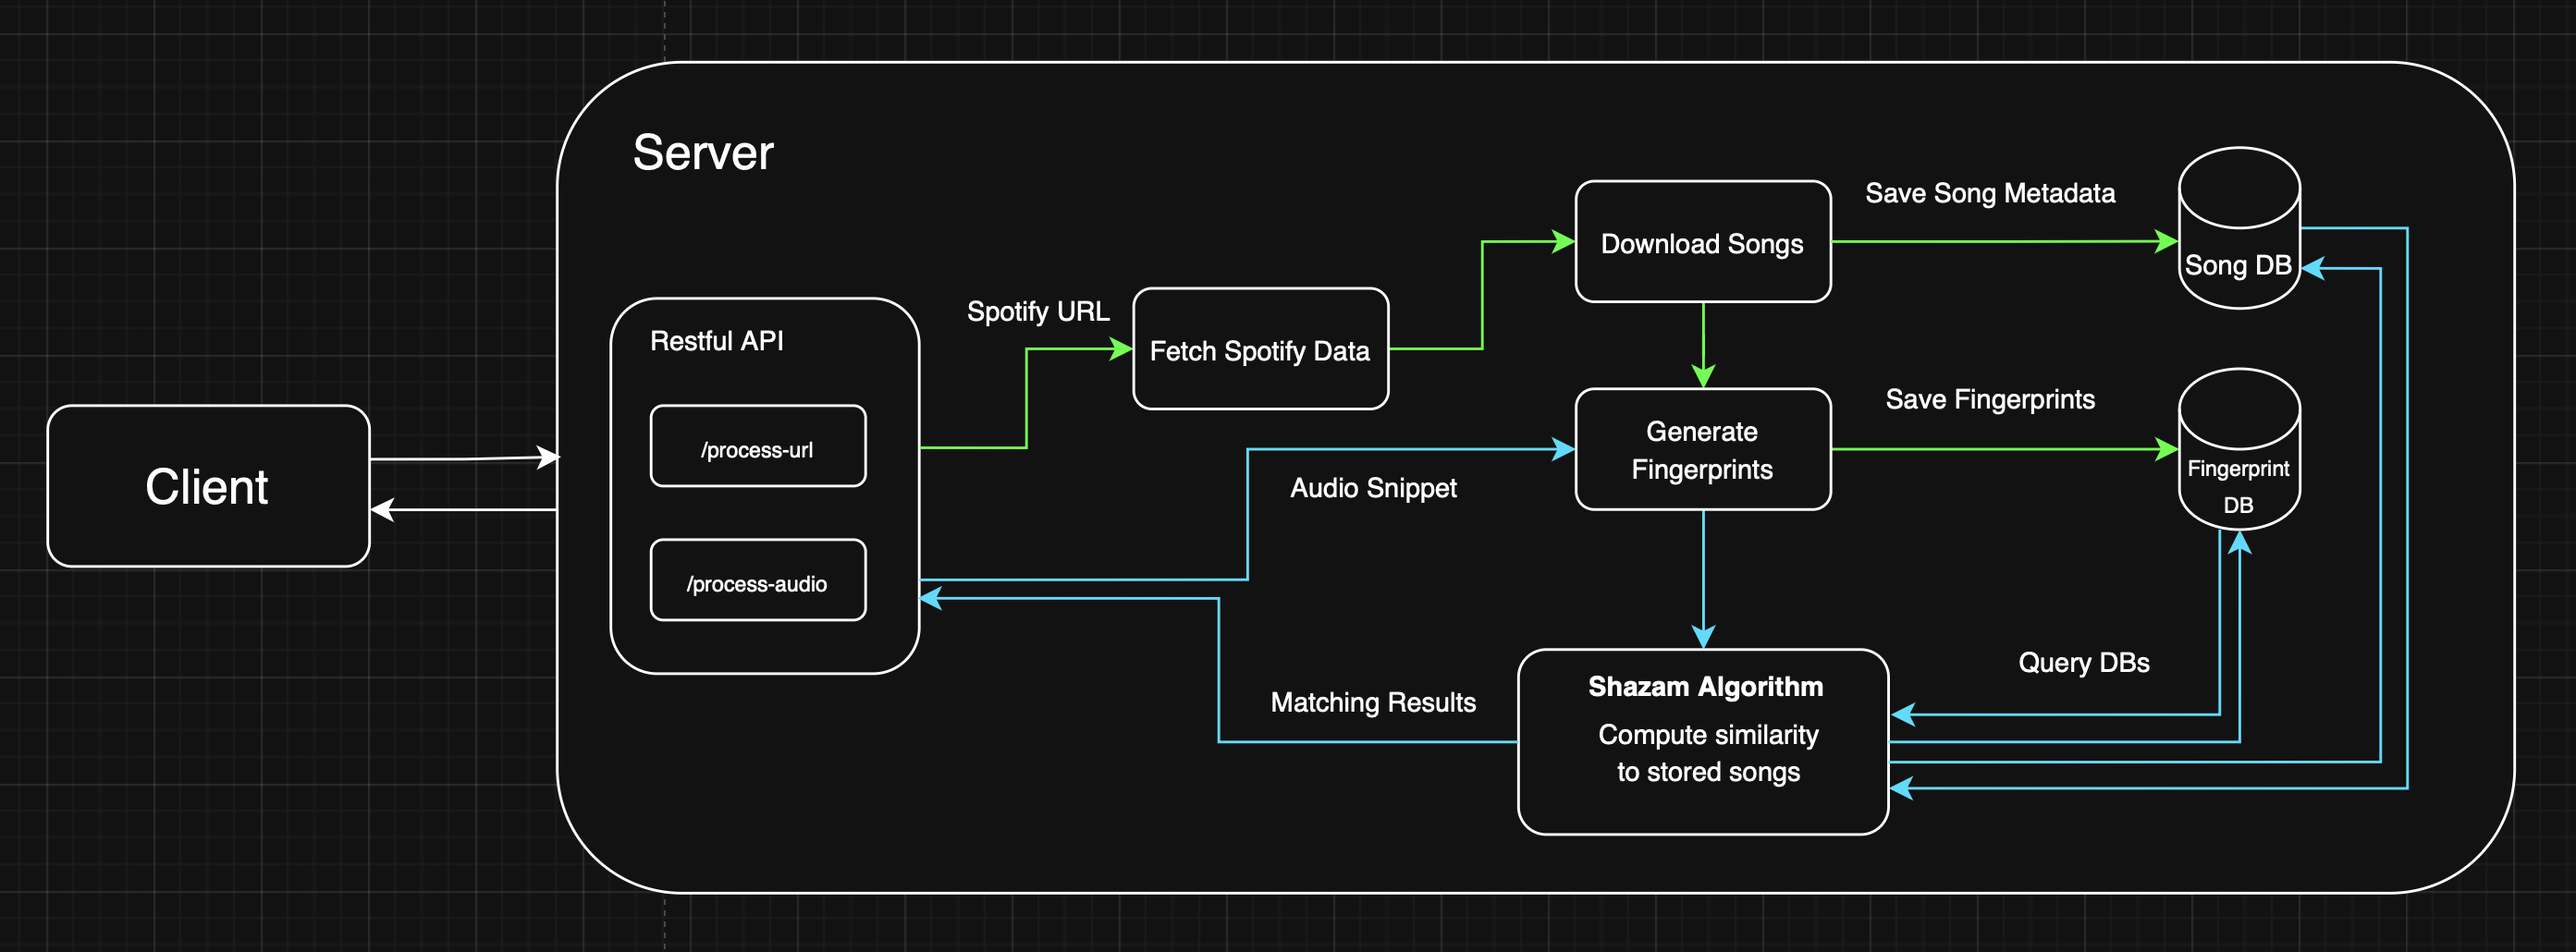
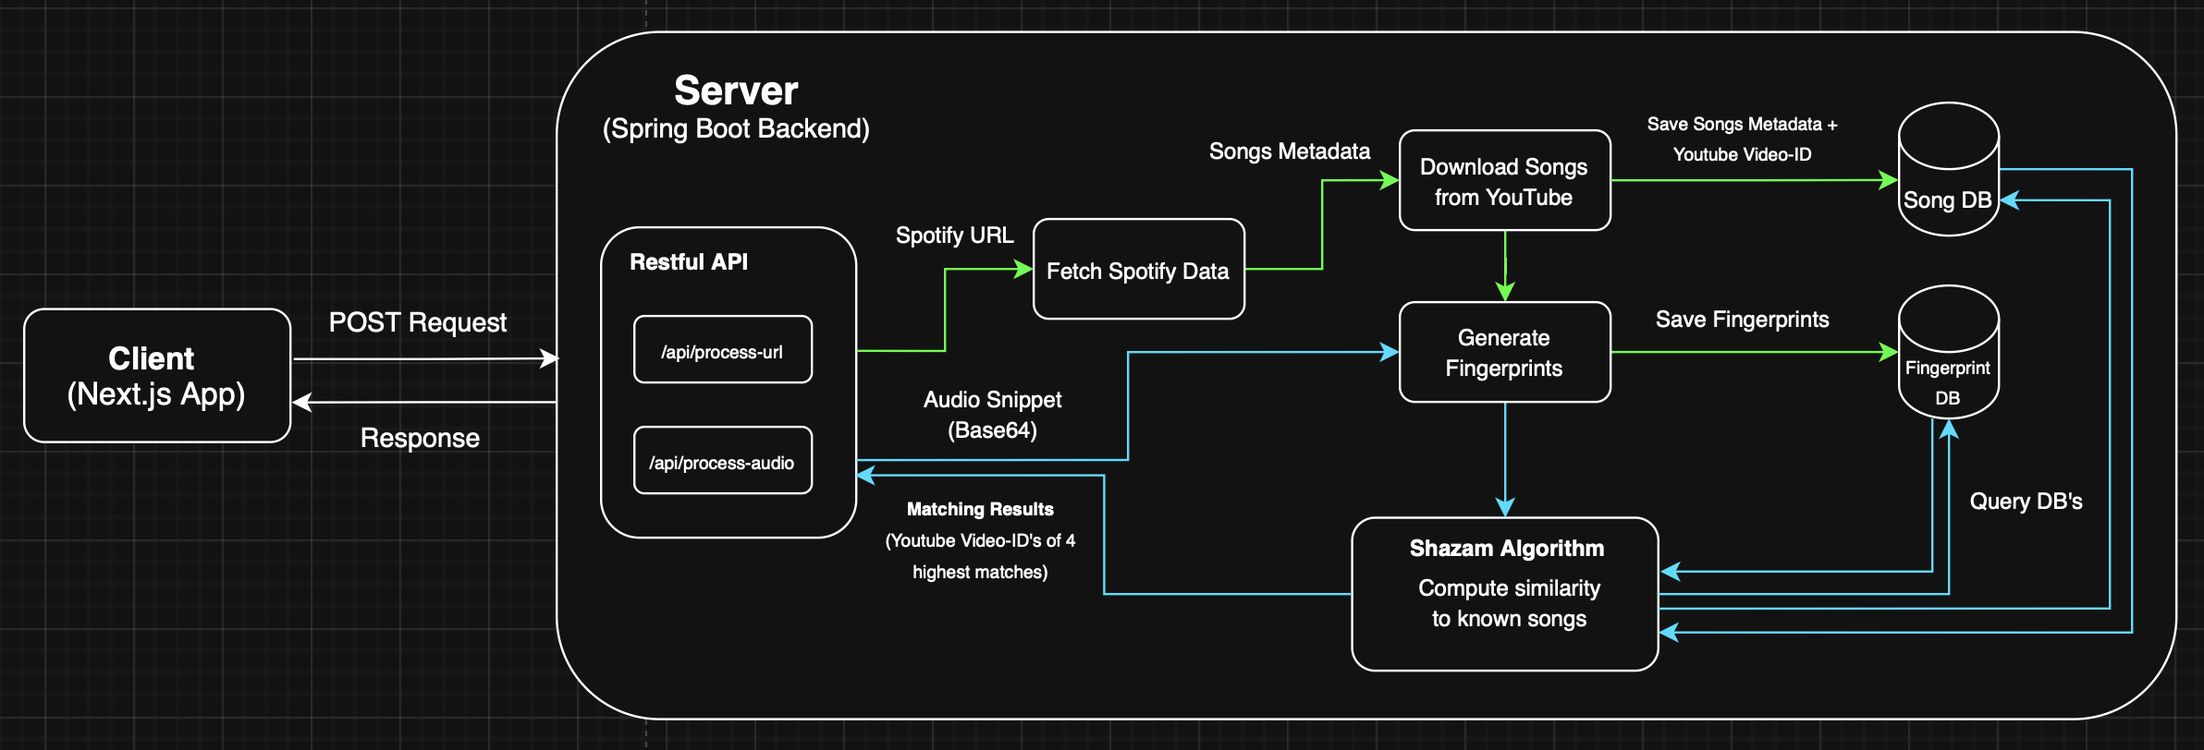
minor changes in front- and backend

diff --git a/client/app/page.tsx b/client/app/page.tsx
@@ -1,4 +1,4 @@
-'use client';
+"use client";
 
 import { useState, useEffect } from "react";
 
@@ -9,6 +9,8 @@ import CustomAlert from "@/components/CustomAlert";
 import TotalSongs from "@/components/TotalSongs";
 import Carousel from "@/components/Carousel";
 import DownloadSpinner from "@/components/DownloadSpinner";
+import { Button } from "@/components/ui/button";
+
 
 import { AudioRecorderService } from "@/utils/AudioRecorderService";
 
@@ -33,6 +35,8 @@ export default function Home() {
   const [inputDisabled, setInputDisabled] = useState(false);
   const [destructive, setDestructive] = useState(false);
   const [matchYtIds, setMatchYtIds] = useState<string[]>([]);
+  const [showCarousel, setShowCarousel] = useState(false);
+
 
   useEffect(() => {
     if (showAlert) {
@@ -120,6 +124,12 @@ export default function Home() {
     sendUrl(); // send the spotify url to the backend
   }, [inputBody, canSend])
 
+  useEffect(() => {
+    if (matchYtIds.length > 0) {
+      setShowCarousel(true);
+    }
+  }, [matchYtIds])
+
 
   useEffect(() => {
 
@@ -164,7 +174,8 @@ export default function Home() {
           const result = msg.split(",").filter(Boolean);
           setMatchYtIds(prev => [...prev, ...result]);
         }
-      } catch (err) {
+      } 
+      catch (err) {
         console.error("Unexpected error during sending: ", err)
       }
       finally {
@@ -183,12 +194,18 @@ export default function Home() {
   return (
     <div className="flex flex-col relative justify-center items-center gap-24">
       <CustomAlert message={notif} show={showAlert} destructive={destructive}/>
-      <TotalSongs totalSongs={totalSongs}></TotalSongs>
+      <TotalSongs totalSongs={totalSongs}/>
       <p>Identify and discover songs in seconds.</p>
       <ListenButton isRecording={isRecording} setListenBtnClicked={setListenBtnClicked}/>
       <div className="flex flex-col items-center gap-14">
         <InputDeviceSelecter inputDeviceType={inputDeviceType} onSend={setInputDeviceType}/>
-        {matchYtIds.length > 0 && <Carousel matchYtIds={matchYtIds} />}
+        {matchYtIds.length > 0 && showCarousel && (
+          <div className="flex flex-col">
+            <p>{showCarousel}</p>
+            <Button variant="secondary" size="lg" className='ml-4 mb-2 w-fit' onClick={() => setShowCarousel(false)}>Close Matches</Button>
+            <Carousel matchYtIds={matchYtIds} />
+          </div>
+        )}
         <InputWithButton setInputBody={setInputBody} setCanSend={setCanSend} disabled={inputDisabled || processStage.length > 0}/>
         {processStage.length > 0 && <DownloadSpinner processStage={processStage}/>}
       </div>

diff --git a/client/components/NavBar.tsx b/client/components/NavBar.tsx
@@ -2,34 +2,33 @@ import Link from 'next/link';
 import { FaGithub } from "react-icons/fa";
 
 const NavBar = () => {
-  return (
-    <div className="navbar border-b h-18" >
-        <div className="navbar-start">
-            <div className="dropdown">
-                <div tabIndex={0} role="button" className="btn btn-ghost btn-circle">
-                <svg xmlns="http://www.w3.org/2000/svg" className="h-8 w-8" fill="none" viewBox="0 0 24 24" stroke="currentColor"> <path strokeLinecap="round" strokeLinejoin="round" strokeWidth="2" d="M4 6h16M4 12h16M4 18h7" /> </svg>
+    return (
+        <div className="navbar border-b h-18" >
+            <div className="navbar-start">
+                <div className="dropdown">
+                    <div tabIndex={0} role="button" className="btn btn-ghost btn-circle">
+                        <svg xmlns="http://www.w3.org/2000/svg" className="h-8 w-8" fill="none" viewBox="0 0 24 24" stroke="currentColor"> <path strokeLinecap="round" strokeLinejoin="round" strokeWidth="2" d="M4 6h16M4 12h16M4 18h7" /> </svg>
+                    </div>
+                    <ul className="menu menu-sm dropdown-content bg-base-100 rounded-box z-1 mt-3 w-52 p-2">
+                        <li><Link href="/">TrackMatch</Link></li>
+                        <li><Link href="/about">About</Link></li>
+                    </ul>
+                </div>
             </div>
-                <ul
-                    className="menu menu-sm dropdown-content bg-base-100 rounded-box z-1 mt-3 w-52 p-2">
-                    <li><Link href="/">TrackMatch</Link></li>
-                    <li><Link href="/about">About</Link></li>
-                </ul>
+            <div className="navbar-center">
+                <div className="font-bold text-3xl">TrackMatch</div>
+            </div>
+            <div className="navbar-end">
+                <Link
+                    className="btn btn-ghost btn-circle" 
+                    href="https://github.com/Mo20DE/TrackMatch" 
+                    target='_blank'
+                >
+                    <FaGithub size={40}/>
+                </Link>
             </div>
         </div>
-        <div className="navbar-center">
-            <div className="font-bold text-3xl">TrackMatch</div>
-        </div>
-        <div className="navbar-end">
-            <Link
-                className="btn btn-ghost btn-circle" 
-                href="https://github.com/Mo20DE/TrackMatch" 
-                target='_blank'
-            >
-                <FaGithub size={40}/>
-            </Link>
-        </div>
-    </div>
-  )
+    )
 }
 
 export default NavBar;

diff --git a/client/app/about/page.tsx b/client/app/about/page.tsx
@@ -2,18 +2,13 @@ import Image from "next/image";
 
 const About = () => {
   return (
-    <div className='text-justify text-xl pl-20 pr-20'>
+    <div className='flex flex-col gap-12 text-justify text-xl pl-20 pr-20'>
         <p>
             This app shows my latest coding project. It implements the Shazam algorithm 
-            to recognize music. The frontend is built with Next.js and the backend with Spring 
-            Boot and PostgreSQL for the database. The backend offers 
-            two endpoints. One handles fetching spotify data, downloading songs and generating 
-            fingerprints for the songs. The other endpoint is responsible for processing the recorded 
-            audio by generating it's fingerprint and matching it with the stored fingerprints in database.
+            to recognize songs. The frontend is built with Next.js (React/Tailwind), while the 
+            backend is built with Spring Boot and PostgreSQL and offers two RESTful endpoints. <br/>
         </p>
-        <br/>
-        <p>The following graphic shows the system architecture of the project:</p>
-        <div className="mt-10 flex justify-center">
+        <div className="flex justify-center">
           <Image 
                 src="/architecture.png"
                 alt="System Architecture"
@@ -21,6 +16,17 @@ const About = () => {
                 height={300}
           />
         </div>
+        <p>
+            One is <code>POST /api/process-url</code>, which is responsible for 
+            fetching song metadata via Spotify's Web-API based on a provided Spotify-URL, downloading 
+            the found songs from youtube, generating fingerprints (short digital audio signatures - unique 
+            patterns of certain frequencies at specific time points in a song to quickly identify and match 
+            music) and finally saving the acquired data into a databse. <br/><br/>
+            The other endpoint is <code>POST /api/process-audio</code>, which handles the processing of the 
+            recorded audio snippet by generating it's corresponding fingerprint and applying an efficient matching
+            algorithm that uses the fingerprints from the database to find the YouTube Video-Id's of the four highest 
+            matches. Finally these Video-ID's are used to display the videos on the client side. 
+        </p>
     </div>
   )
 }

diff --git a/client/components/Carousel.tsx b/client/components/Carousel.tsx
@@ -7,13 +7,16 @@ interface CarouselProps {
 const baseUrl = "https://www.youtube.com/embed/";
 
 const Carousel = ({matchYtIds}: CarouselProps) => {
+
   return (
-    <div className="carousel carousel-center bg-neutral rounded-box max-w-2xl space-x-4 p-4">
-        {matchYtIds.map((url, index) => {
-        return (
-            <iframe key={index} className="carousel-item w-md h-72 rounded-xl" src={baseUrl + url} allow='fullscreen' allowFullScreen/>
-        )})}
-    </div>
+    <>
+      <div className="carousel carousel-center bg-neutral rounded-box max-w-2xl space-x-4 p-4">
+          {matchYtIds.map((url, index) => {
+          return (
+              <iframe key={index} className="carousel-item w-md h-72 rounded-xl" src={baseUrl + url} allow='fullscreen' allowFullScreen/>
+          )})}
+      </div>
+  </>
   )
 }
 

diff --git a/client/components/TotalSongs.tsx b/client/components/TotalSongs.tsx
@@ -5,7 +5,7 @@ interface TotalSongsProps {
 
 const TotalSongs = ({totalSongs}: TotalSongsProps) => {
     return (
-        <div className="absolute top-[-50] right-[-60] bg-white text-black font-bold rounded-full p-2 pl-4 pr-4 text-[14px]">
+        <div className="absolute top-[-30] right-[-50] bg-white text-black font-bold rounded-full p-2 pl-4 pr-4 text-[14px]">
             {totalSongs} Songs
         </div>
     )

diff --git a/client/app/layout.tsx b/client/app/layout.tsx
@@ -20,7 +20,7 @@ export default function RootLayout({
         className="flex flex-col min-h-screen antialiased dark"
       >
         <NavBar />
-        <div className="flex-grow p-18 mb-20">
+        <div className="flex-grow p-14 mb-14">
           {children}
         </div>
         <Footer />

diff --git a/client/components/InputWithButton.tsx b/client/components/InputWithButton.tsx
@@ -1,4 +1,4 @@
-'use client'
+"use client";
 import { Label } from '@/components/ui/label'
 import { Input } from "@/components/ui/input"
 import { Button } from "@/components/ui/button"

diff --git a/client/components/ui/toggle-group.tsx b/client/components/ui/toggle-group.tsx
@@ -1,4 +1,4 @@
-"use client"
+"use client";
 
 import * as React from "react"
 import * as ToggleGroupPrimitive from "@radix-ui/react-toggle-group"

diff --git a/client/components/ui/separator.tsx b/client/components/ui/separator.tsx
@@ -1,4 +1,4 @@
-"use client"
+"use client";
 
 import * as React from "react"
 import * as SeparatorPrimitive from "@radix-ui/react-separator"

diff --git a/client/components/ui/toggle.tsx b/client/components/ui/toggle.tsx
@@ -1,4 +1,4 @@
-"use client"
+"use client";
 
 import * as React from "react"
 import * as TogglePrimitive from "@radix-ui/react-toggle"

diff --git a/client/components/ui/label.tsx b/client/components/ui/label.tsx
@@ -1,4 +1,4 @@
-"use client"
+"use client";
 
 import * as React from "react"
 import * as LabelPrimitive from "@radix-ui/react-label"

diff --git a/server/src/main/java/com/trackmatch/server/services/SpotifyService.java b/server/src/main/java/com/trackmatch/server/services/SpotifyService.java
@@ -2,7 +2,7 @@ package com.trackmatch.server.services;
 
 import com.fasterxml.jackson.databind.JsonNode;
 import com.fasterxml.jackson.databind.ObjectMapper;
-import com.trackmatch.server.components.SpotifyConfig;
+import com.trackmatch.server.components.SpotifyCredentials;
 import com.trackmatch.server.models.ServiceResult;
 import org.springframework.stereotype.Service;
 
@@ -17,12 +17,12 @@ import java.util.Base64;
 @Service
 public class SpotifyService {
 
-    private final SpotifyConfig spotifyConfig;
+    private final SpotifyCredentials spotifyCredentials;
     private final HttpClient client = HttpClient.newHttpClient();
     private final NotificationService notificationService;
 
-    public SpotifyService(SpotifyConfig spotifyConfig, NotificationService notificationService) {
-        this.spotifyConfig = spotifyConfig;
+    public SpotifyService(SpotifyCredentials spotifyCredentials, NotificationService notificationService) {
+        this.spotifyCredentials = spotifyCredentials;
         this.notificationService = notificationService;
     }
 
@@ -31,7 +31,7 @@ public class SpotifyService {
             notificationService.sendProcessStageNotification("Fetching data...");
             // send request to spotify to get the access-token for web-api
             String token_url = "https://accounts.spotify.com/api/token";
-            String client_data = spotifyConfig.getClientID() + ":" + spotifyConfig.getClientSecret();
+            String client_data = spotifyCredentials.getClientID() + ":" + spotifyCredentials.getClientSecret();
             String encoded_client_data = Base64.getEncoder().encodeToString((client_data.getBytes()));
 
             HttpRequest access_token_request = HttpRequest.newBuilder()
